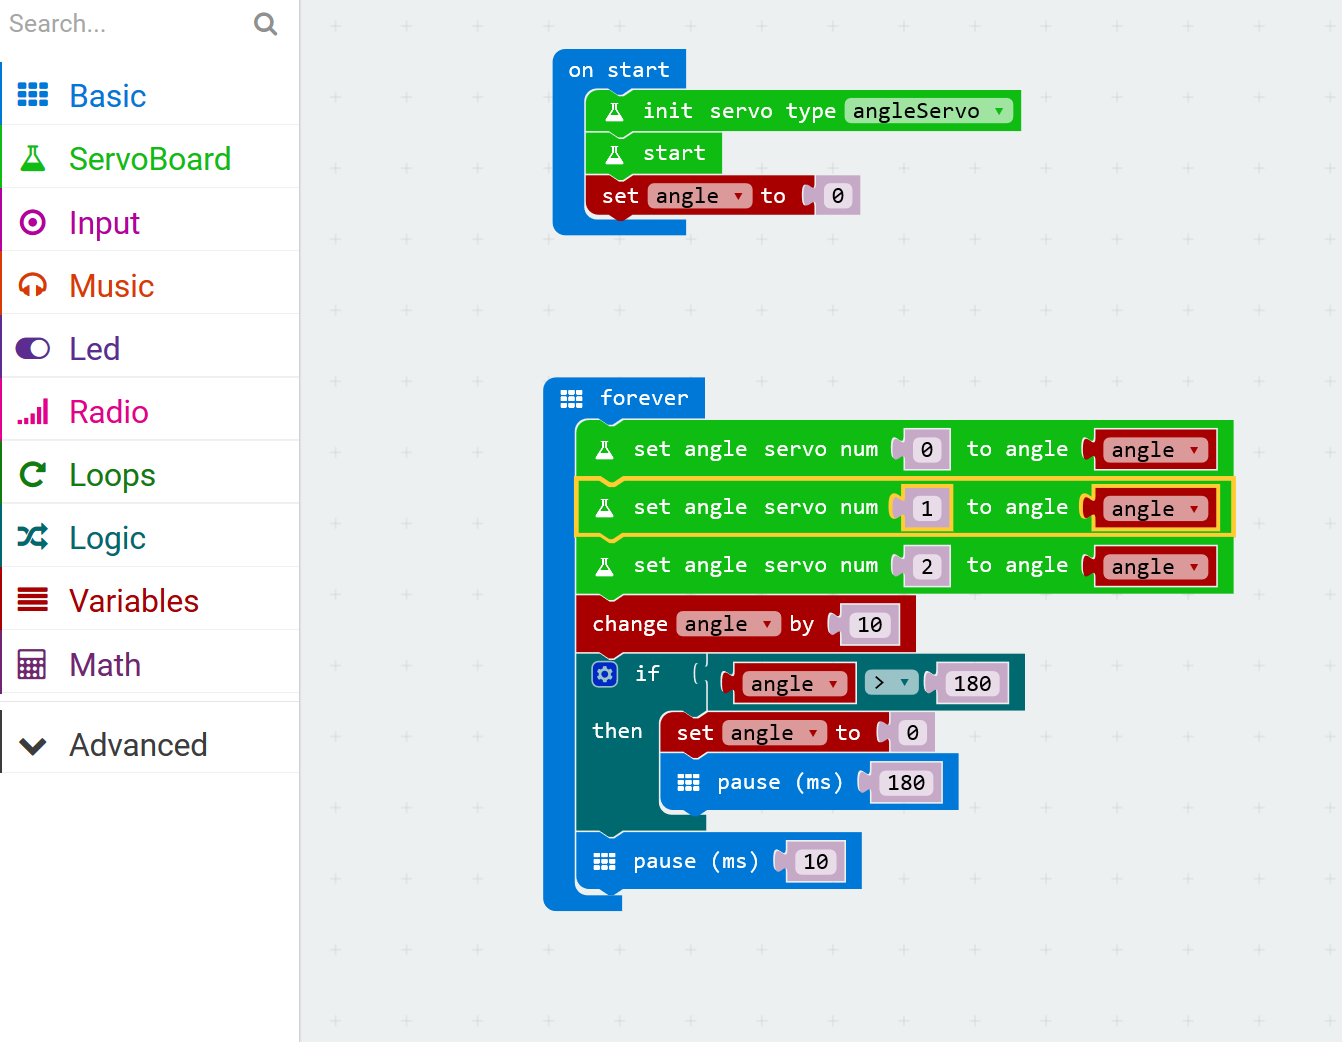
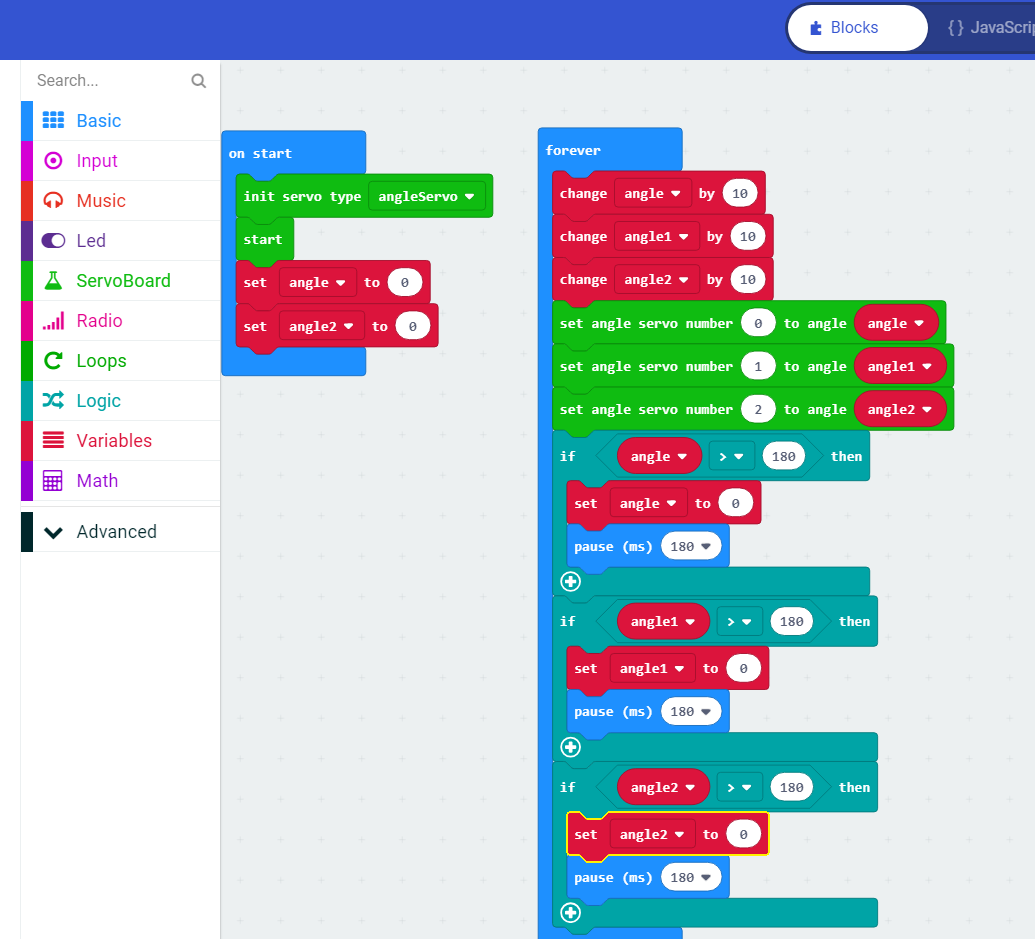
More updates

diff --git a/docs/source/movingMotors.rst b/docs/source/movingMotors.rst
@@ -27,5 +27,10 @@ Now you can add the rest of the code to change the angle of the motor.
 
 .. image:: pictures/buttonMove.png
   :scale: 50%
-  
+
 What happens when the angle reaches 180°? Try it out.
+
+If we are going to make the robot crawl we need to make the motor move independently. To do this, move the code that makes the motor move to the ``forever`` block like this:
+
+.. image:: pictures/motorMove.png
+  :scale: 50%
